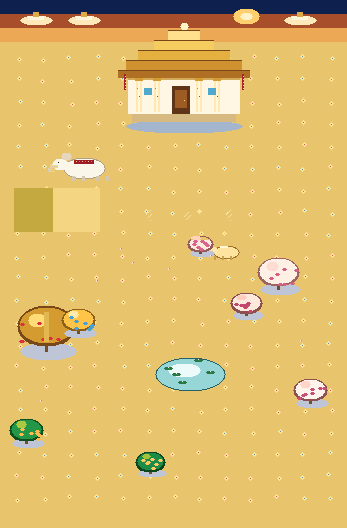
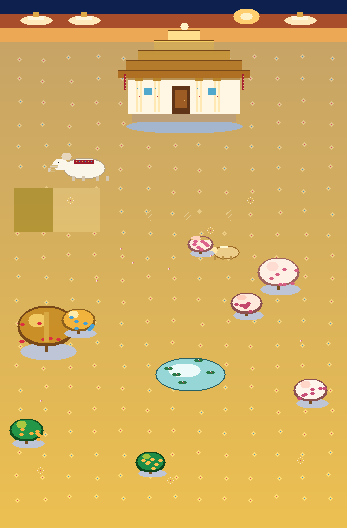
Put the demon mage's spell and run loops in Naraka.

diff --git a/src/game/draw.ts b/src/game/draw.ts
@@ -771,6 +771,42 @@ function paintAngel(ctx: CanvasRenderingContext2D, sheets: Sheets, a: AngelPaint
   blit(ctx, img, a.frame * ANGEL, 0, ANGEL, ANGEL, a.x, a.y, a.scale, a.flip, 54, a.footY);
 }
 
+const DEMON_W = 160;
+const DEMON_H = 128;
+const DEMON_PATH = [
+  { x: 292, y: 248 },
+  { x: 300, y: 330 },
+  { x: 272, y: 210 },
+  { x: 188, y: 210 },
+  { x: 140, y: 250 },
+  { x: 124, y: 330 },
+  { x: 168, y: 450 },
+  { x: 96, y: 478 },
+  { x: 220, y: 490 },
+  { x: 300, y: 420 },
+];
+
+function narakaDemon(clock: number): { x: number; y: number; flip: boolean; row: number; frame: number } {
+  const cycle = 16;
+  const t = clock % cycle;
+  const laps = Math.floor(clock / cycle);
+  const pos = alongPath(laps * 10 + Math.min(t, 10), 26, DEMON_PATH);
+  const spell = laps % 4;
+  if (t < 10) return { ...pos, row: 1, frame: Math.floor(clock * 10) % 8 };
+  if (t < 12) return { ...pos, row: 0, frame: Math.floor(clock * 6) % 8 };
+  const u = t - 12;
+  if (spell === 0) return { ...pos, row: 2, frame: Math.min(23, Math.floor(u * 6)) };
+  if (spell === 1) return { ...pos, row: 3, frame: Math.min(7, Math.floor(u * 4)) };
+  if (spell === 2) return { ...pos, row: 4, frame: Math.min(15, Math.floor(u * 4)) };
+  if (u < 2) return { ...pos, row: 5, frame: Math.min(15, Math.floor(u * 8)) };
+  return { ...pos, row: 6, frame: Math.floor((u - 2) * 6) % 8 };
+}
+
+function paintDemon(ctx: CanvasRenderingContext2D, sheet: HTMLImageElement, d: { x: number; y: number; flip: boolean; row: number; frame: number }): void {
+  fillOval(ctx, d.x, d.y + 1, 9, 3, "rgba(0, 0, 0, 0.45)");
+  blit(ctx, sheet, d.frame * DEMON_W, d.row * DEMON_H, DEMON_W, DEMON_H, d.x, d.y, 0.7, d.flip, 80, 112);
+}
+
 function drawRealmGate(ctx: CanvasRenderingContext2D, s: GameState): void {
   const wing = s.wing ?? 0;
   const gold = wing === 1;
@@ -819,7 +855,10 @@ export function drawWorld(
       for (const a of angels) if (a.y > s.y) paintAngel(ctx, sheets, a);
     } else {
       drawNaraka(ctx, s.clock, sheets.naraka);
+      const demon = sheets.demonMage ? narakaDemon(s.clock) : null;
+      if (demon && demon.y <= s.y && sheets.demonMage) paintDemon(ctx, sheets.demonMage, demon);
       if (sheets.idle) paintPlayer(ctx, sheets, s);
+      if (demon && demon.y > s.y && sheets.demonMage) paintDemon(ctx, sheets.demonMage, demon);
     }
     drawRealmGate(ctx, s);
     if (sheets.idle && playerInPortal(s)) paintPlayer(ctx, sheets, s);

diff --git a/src/game/assets.ts b/src/game/assets.ts
@@ -1,5 +1,5 @@
 /** Bump this when the pictures change so phones and computers drop the old files. */
-export const ART = "20260929f";
+export const ART = "20260929g";
 
 function art(path: string): string {
   return `${path}?v=${ART}`;
@@ -86,12 +86,14 @@ const URLS: Record<string, string> = {
   cherubFly: art("/game/angels/Cherub_Fly.png"),
   cherubShoot: art("/game/angels/Cherub_Shoot.png"),
   cherubArrow: art("/game/angels/Cherub_Arrow.png"),
+  demonMage: art("/game/demons/demon-mage.png"),
 };
 
 export const ASSET_GROUPS: { id: string; label: string; keys: string[] }[] = [
   { id: "world", label: "World", keys: ["yard", "meadow", "path", "occlude", "house", "rocks", "meadowDress"] },
   { id: "land", label: "Land", keys: ["landGrass", "landSoil", "landTilled", "landWater", "farmExtend", "svarga", "naraka"] },
   { id: "angels", label: "Angels", keys: ["seraphimIdle", "seraphimWalk", "seraphimFly", "seraphimAttack", "archangelFly", "archangelAttack", "cherubFly", "cherubShoot", "cherubArrow"] },
+  { id: "demons", label: "Demons", keys: ["demonMage"] },
   { id: "druid", label: "Druid", keys: ["idle", "walk", "water", "shovel", "scythe", "axe", "hammer", "handsidle", "handswalk", "goddess", "goddessFront", "goddessBack", "goddessFront3", "goddessBack3"] },
   { id: "animals", label: "Animals", keys: ["cowIdle", "cowWalk", "goatIdle", "goatWalk", "roosterIdle", "roosterWalk", "cat", "catSit", "catStand", "catWalk", "catRun", "bee", "butterfly"] },
   { id: "plants", label: "Plants", keys: ["tomato", "cabbage", "greens", "flowers", "treeOak", "treeApple", "treeBirch", "treePine", "treeStump", "treeSapling"] },
